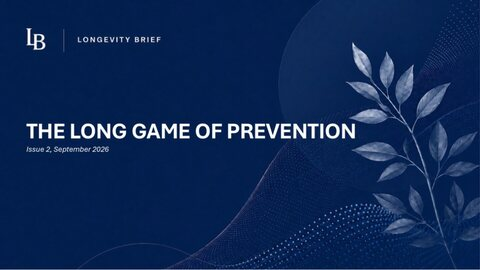
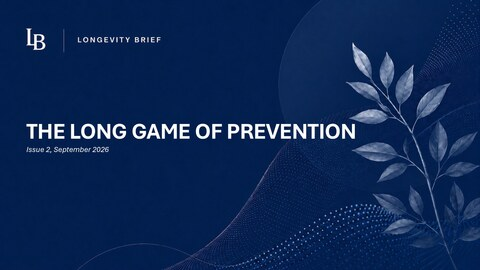
Add files via upload

diff --git a/longevity-brief/the-long-game-of-prevention/index.html b/longevity-brief/the-long-game-of-prevention/index.html
@@ -28,7 +28,7 @@
 <header class="site-header" id="top"><div class="container nav"><a aria-label="Stefano Cacciatore home" class="brand" href="../../"><img alt="" height="42" src="../../assets/sc-mark.svg" width="42"/><span>Stefano Cacciatore, MD</span></a><button aria-controls="main-nav" aria-expanded="false" class="menu-button" type="button">Menu</button><nav aria-label="Primary navigation" class="main-nav" id="main-nav"><a href="../../">Home</a><a href="../../curriculum/">Curriculum</a><a href="../../publications/">Publications</a><a href="../../news/">News</a><a aria-current="page" href="../">Longevity Brief</a><a class="contact-button" href="mailto:contact@stefanocacciatore.org">Contact</a></nav></div></header>
 <main>
 <header class="issue-hero"><div class="issue-shell"><a class="issue-back reveal" href="../">← All issues</a><p class="issue-kicker reveal">Longevity Brief · Issue 02 · September 2026 · 7-minute read</p><h1 class="reveal">The Long Game of Prevention</h1><p class="issue-deck reveal">Why prevention must evolve across the life course, from cumulative cardiovascular risk to function, screening, vaccination, and treatment decisions in later life.</p><div class="issue-author reveal"><img src="../../assets/hero-480.webp" alt="Stefano Cacciatore" width="72" height="72"/><div><p><a href="../../">Stefano Cacciatore, MD</a></p><span>Geriatrician &amp; Epidemiologist · Visiting Research Fellow, University of Florida</span><time datetime="2026-09-01">September 1, 2026</time></div></div></div></header>
-<figure class="issue-cover reveal"><img alt="Cover of Longevity Brief Issue 02, The Long Game of Prevention" fetchpriority="high" src="../../assets/longevity-brief-issue-02.jpg" srcset="../../assets/longevity-brief-issue-02-480.jpg 480w, ../../assets/longevity-brief-issue-02.jpg 1440w" sizes="(max-width: 480px) calc(100vw - 32px), (max-width: 767px) calc(100vw - 48px), 940px" width="1440" height="810"/></figure>
+<figure class="issue-cover reveal"><img alt="Cover of Longevity Brief Issue 02, The Long Game of Prevention" fetchpriority="high" src="../../assets/longevity-brief-issue-02.jpg" srcset="../../assets/longevity-brief-issue-02-480.jpg 480w, ../../assets/longevity-brief-issue-02.jpg 1440w" sizes="(max-width: 480px) calc(100vw - 32px), (max-width: 767px) calc(100vw - 48px), 720px" width="1440" height="810"/></figure>
 <article class="brief-article-body"><h2 id="editorial">Editorial</h2>
 <p>Prevention is rarely about a single decision made at a single point in time. The risks that shape health accumulate over years and decades, but the opportunities to modify them also change. What matters in early adulthood may be reducing long-term exposure to cardiovascular risk. During pregnancy, prevention can extend to the next generation. In midlife, it may mean finding disease before symptoms appear. Later on, the goal may shift toward preserving physical function, avoiding unnecessary treatment, and making sure preventive care still reflects an individual&#x27;s priorities and likely benefit.</p>
 <p>This life-course perspective is increasingly important as populations live longer and chronic diseases emerge from combinations of cumulative exposure, behavior, biology, and social context. Living longer also means having more time for these exposures to accumulate. I have come to think of age not only as a risk factor in itself, but also as a marker of the time over which risks (and protections) have had the opportunity to act. Two people can reach the same chronological age through very different trajectories, shaped by decades of exposure, health, and resilience. From this perspective, the risk we observe later in life reflects not only the present, but also the path that led there. A life-course approach to prevention therefore asks us to consider how risk develops over time, what remains modifiable, and what matters most at each stage of life.</p>

diff --git a/longevity-brief/index.html b/longevity-brief/index.html
@@ -89,19 +89,19 @@
 <div class="brief-archive-grid">
 <article class="brief-archive-card reveal">
 <a href="how-should-we-measure-aging/">
-<img alt="Longevity Brief Issue 03 cover" src="../assets/longevity-brief-issue-03.jpg" decoding="async" srcset="../assets/longevity-brief-issue-03-480.jpg 480w, ../assets/longevity-brief-issue-03.jpg 1440w" sizes="(max-width: 480px) calc(100vw - 32px), 420px"/>
+<img alt="Longevity Brief Issue 03 cover" src="../assets/longevity-brief-issue-03.jpg" decoding="async" srcset="../assets/longevity-brief-issue-03-480.jpg 480w, ../assets/longevity-brief-issue-03.jpg 1440w" sizes="(max-width: 767px) 118px, 180px"/>
 </a>
 <div><p class="brief-issue">Issue 03 · October 2026</p><h3><a href="how-should-we-measure-aging/">How Should We Measure Aging?</a></h3><a class="brief-text-link" href="how-should-we-measure-aging/">Read issue →</a></div>
 </article>
 <article class="brief-archive-card reveal">
 <a href="the-long-game-of-prevention/">
-<img alt="Longevity Brief Issue 02 cover" src="../assets/longevity-brief-issue-02.jpg" decoding="async" srcset="../assets/longevity-brief-issue-02-480.jpg 480w, ../assets/longevity-brief-issue-02.jpg 1440w" sizes="(max-width: 480px) calc(100vw - 32px), 420px"/>
+<img alt="Longevity Brief Issue 02 cover" src="../assets/longevity-brief-issue-02.jpg" decoding="async" srcset="../assets/longevity-brief-issue-02-480.jpg 480w, ../assets/longevity-brief-issue-02.jpg 1440w" sizes="(max-width: 767px) 118px, 180px"/>
 </a>
 <div><p class="brief-issue">Issue 02 · September 2026</p><h3><a href="the-long-game-of-prevention/">The Long Game of Prevention</a></h3><a class="brief-text-link" href="the-long-game-of-prevention/">Read issue →</a></div>
 </article>
 <article class="brief-archive-card reveal">
 <a href="from-biological-aging-to-everyday-independence/">
-<img alt="Longevity Brief Issue 01 cover" src="../assets/longevity-brief-issue-01.jpg" decoding="async" srcset="../assets/longevity-brief-issue-01-480.jpg 480w, ../assets/longevity-brief-issue-01.jpg 1440w" sizes="(max-width: 480px) calc(100vw - 32px), (max-width: 767px) calc(100vw - 48px), 720px"/>
+<img alt="Longevity Brief Issue 01 cover" src="../assets/longevity-brief-issue-01.jpg" decoding="async" srcset="../assets/longevity-brief-issue-01-480.jpg 480w, ../assets/longevity-brief-issue-01.jpg 1440w" sizes="(max-width: 767px) 118px, 180px"/>
 </a>
 <div>
 <p class="brief-issue">Issue 01 · August 2026</p>

diff --git a/index.html b/index.html
@@ -117,28 +117,6 @@
 </div><div class="research-publications-link reveal"><a class="all-publications" href="publications/">Explore publications →</a></div>
 </div>
 </section>
-<section class="section brief-section" id="brief">
-<div class="container brief-feature">
-<a aria-label="Read Longevity Brief Issue 01" class="brief-cover reveal" href="longevity-brief/from-biological-aging-to-everyday-independence/">
-<img alt="Cover of Longevity Brief Issue 01, From Biological Aging to Everyday Independence" loading="lazy" src="assets/longevity-brief-issue-01.jpg" decoding="async" srcset="assets/longevity-brief-issue-01-480.jpg 480w, assets/longevity-brief-issue-01.jpg 1440w" sizes="(max-width: 480px) calc(100vw - 32px), (max-width: 767px) calc(100vw - 48px), 720px"/>
-</a>
-<div class="brief-content reveal">
-<p class="label">Longevity Brief</p>
-<h2 class="brief-tagline">Research and ideas for longer, healthier lives.</h2>
-<p class="brief-description">A curated selection of recent research on healthy aging and longevity.</p>
-<div class="brief-latest">
-<p class="brief-kicker">Latest issue</p>
-<p class="brief-issue">Issue 01 · August 2026</p>
-<h3>From Biological Aging to Everyday Independence</h3>
-<p>From molecular aging to mobility, disability, and independence, the first issue explores how emerging science can help us understand the capacities that matter as people age.</p>
-</div>
-<div class="brief-actions">
-<a class="primary-link" href="longevity-brief/from-biological-aging-to-everyday-independence/">Read Issue 01 →</a>
-<a class="secondary-link" href="longevity-brief/">Explore Longevity Brief</a>
-</div>
-</div>
-</div>
-</section>
 <section class="section news-section" id="news">
 <div class="container">
 <div class="section-heading reveal">

diff --git a/style.css b/style.css
@@ -3508,3 +3508,39 @@ button:focus-visible {
     grid-template-columns: 1fr;
   }
 }
+
+/* Compact Longevity Brief archive. */
+.longevity-brief-page .brief-archive-grid {
+  display: block;
+  border-top: 1px solid var(--line);
+}
+
+.longevity-brief-page .brief-archive-card {
+  display: grid;
+  grid-template-columns: 180px minmax(0, 1fr);
+  gap: 30px;
+  align-items: center;
+  padding: 28px 0;
+  border-bottom: 1px solid var(--line);
+}
+
+.longevity-brief-page .brief-archive-card > a {
+  width: 180px;
+  aspect-ratio: 16 / 9;
+}
+
+.longevity-brief-page .brief-archive-card h3 {
+  max-width: 720px;
+}
+
+@media (max-width: 767px) {
+  .longevity-brief-page .brief-archive-card {
+    grid-template-columns: 118px minmax(0, 1fr);
+    gap: 18px;
+    padding: 22px 0;
+  }
+
+  .longevity-brief-page .brief-archive-card > a {
+    width: 118px;
+  }
+}
